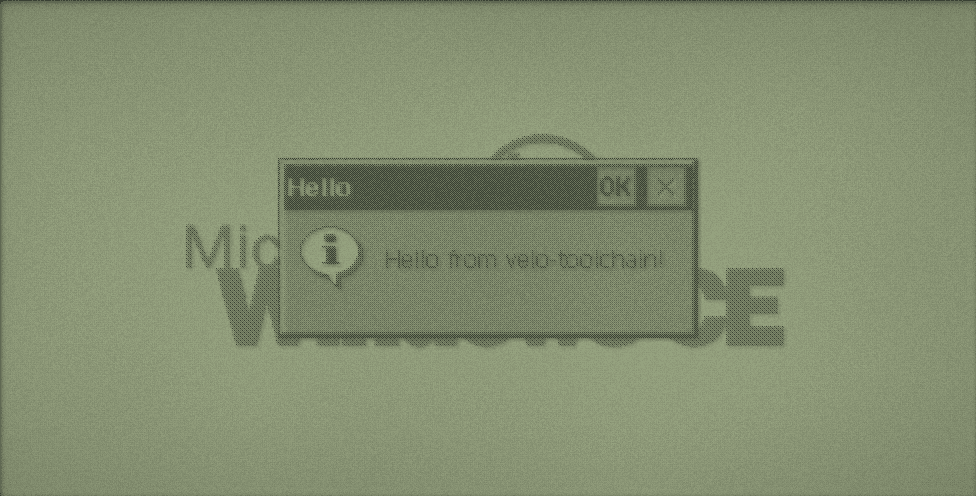
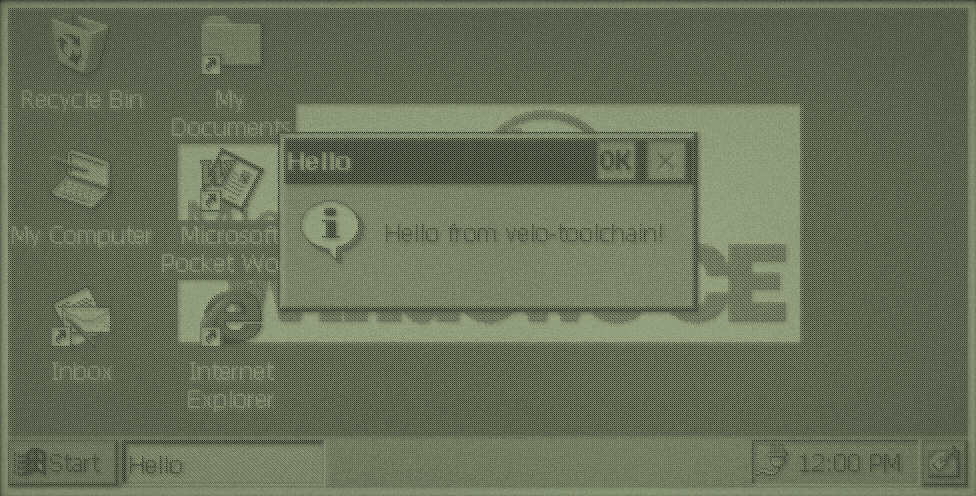
Move the SH3 tests, debug state and docs to the CE 2.12 Explorer image, and note networking on SH3

diff --git a/tools/mkdebugstate.py b/tools/mkdebugstate.py
@@ -17,7 +17,8 @@ velo_debug = SourceFileLoader("velo_debug", os.path.join(ROOT, "tools", "velo-de
 AGENT = "debugmgr.exe"
 INSTALLED = "/Windows/debugmgr.exe"
 SH3_AGENT = "velo-debugmgr.exe"
-SH3_INSTALLED = "/Windows/velo-debugmgr.exe"
+SH3_STAGED = "velo-debugmgr-build.exe"
+SH3_INSTALLED = "/Windows/velo-debugmgr-build.exe"
 SOCKET = "agent.sock"
 CONNECT_SECONDS = 120
 
@@ -43,7 +44,7 @@ if __name__ == "__main__":
     parser.add_argument("--arch", choices=["mips", "sh3"], default="mips", help="sh3: the SH3 emulator (VELO_SH3_EMU, VELO_SH3_ROM)")
     arguments = parser.parse_args()
     target = emulator.load_target(arguments.ce, arguments.arch)
-    agent_name, installed = (SH3_AGENT, SH3_INSTALLED) if arguments.arch == "sh3" else (AGENT, INSTALLED)
+    agent_name, launched, installed = (SH3_AGENT, SH3_STAGED, SH3_INSTALLED) if arguments.arch == "sh3" else (AGENT, AGENT, INSTALLED)
     output = os.path.abspath(arguments.output)
     build = os.path.abspath(arguments.build)
     agent_path = os.path.join(build, agent_name)
@@ -56,7 +57,9 @@ if __name__ == "__main__":
             image = os.path.join(os.path.dirname(output), "debug-card.img")
             shutil.move(media, image)
             media = image
-        events, _ = emulator.launch_events(target, agent_name, "")
+        if launched != agent_name:
+            os.rename(os.path.join(media, agent_name), os.path.join(media, launched))
+        events, _ = emulator.launch_events(target, launched, "")
         command = [os.path.join(target["emulator"], "headless"), target["rom"], "--load=%s" % target["state"], emulator.media_option(target, media),
                    *events, "--agent=%s" % SOCKET, "--seconds=100000", "--save=%s" % output]
         emulator_process = subprocess.Popen(command, stdout=subprocess.DEVNULL, stderr=subprocess.DEVNULL)

diff --git a/tests/emulator.py b/tests/emulator.py
@@ -33,10 +33,9 @@ TARGETS = {
         "folder": True,
     },
 }
-SH3_CALIBRATION = ["--tap=4:240:120", "--tap=6:48:24", "--tap=8:48:216", "--tap=10:432:216", "--tap=12:432:24", "--key=15:5A"]
-SH3_CALIBRATION_SECONDS = 22
-SH3_RUN_DIALOG = ["--key=1:11+0D", "--tap=3:71:198"]
-SH3_TYPED_AT = 5
+SH3_DESKTOP_SECONDS = 30
+SH3_RUN_DIALOG = ["--key=1:14+76", "--type=2:r"]
+SH3_TYPED_AT = 3
 CARD_FOLDER = "EXAMPLES"
 SETTLE_SECONDS = 10
 EXTRA_EVENTS = {"window.exe": ["--tap={at}:200:120"], "window-cxx.exe": ["--tap={at}:200:120"]}
@@ -126,8 +125,8 @@ def make_desktop_state(target, work):
     if target["state"]:
         return target["state"]
     state = os.path.join(work, "desktop.state")
-    subprocess.run([os.path.join(target["emulator"], "headless"), target["rom"], "--seconds=%d" % SH3_CALIBRATION_SECONDS, *SH3_CALIBRATION,
-                    "--save=%s" % state], capture_output=True, timeout=600, check=True)
+    subprocess.run([os.path.join(target["emulator"], "headless"), target["rom"], "--seconds=%d" % SH3_DESKTOP_SECONDS, "--save=%s" % state],
+                   capture_output=True, timeout=600, check=True)
     return state
 
 

diff --git a/README.md b/README.md
@@ -280,13 +280,13 @@ The C runtime DLL's libraries (`msvcrt.lib`, `msvcrtd.lib`) are left out: that D
 
 ### SH3 emulator
 
-The SH3 emulator is a velo-emu fork for Microsoft's Odo SH3 reference board, running a CE 2.11 image built with Platform Builder 2.11. Its `--folder` serves a host folder to CE's parallel-port file system, so programs there start from Task Manager's Run dialog without copying them over. The CE 1.0, 1.01 and 2.0 builds all run on it, and look the same:
+The SH3 emulator is a velo-emu fork for Microsoft's Odo SH3 reference board, running a CE 2.12 (beta) image with the Explorer shell, built with Platform Builder 2.12. Its `--folder` serves a host folder to CE's parallel-port file system, so programs there start from Start > Run by name without copying them over. The CE 1.0, 1.01 and 2.0 builds all run on it, and look the same:
 
 | `hello` | `window` | `maths` | `dll` |
 | --- | --- | --- | --- |
-| ![hello on SH3 CE 2.11](docs/screenshots/sh3/hello.png) | ![window on SH3 CE 2.11](docs/screenshots/sh3/window.png) | ![maths on SH3 CE 2.11](docs/screenshots/sh3/maths.png) | ![greeter on SH3 CE 2.11](docs/screenshots/sh3/greeter.png) |
+| ![hello on SH3 CE 2.12](docs/screenshots/sh3/hello.png) | ![window on SH3 CE 2.12](docs/screenshots/sh3/window.png) | ![maths on SH3 CE 2.12](docs/screenshots/sh3/maths.png) | ![greeter on SH3 CE 2.12](docs/screenshots/sh3/greeter.png) |
 
-These need `VELO_SH3_EMU` (a built SH3 emulator checkout, with `headless`, and `sh3emu` for the window) and `VELO_SH3_ROM` (the CE 2.11 `nk.bin`):
+These need `VELO_SH3_EMU` (a built SH3 emulator checkout, with `headless`, and `sh3emu` for the window) and `VELO_SH3_ROM` (its CE 2.12 image, `odo-sh3-ce212.bin`):
 
 ```sh
 make test-sh3          # run the examples, screenshots in build/ce*-sh3/screenshots
@@ -296,9 +296,11 @@ tools/velo-emulator --arch sh3 &
 gdb -x build/maths.elf.gdb -ex "target extended-remote :2003" -ex "set target-wide-charset UTF-16LE" -ex velo-load -ex "break WinMain" -ex run
 ```
 
-Each run calibrates the touch panel from a cold boot first, unless `VELO_SH3_STATE` names a saved desktop state. `velo-emulator --arch sh3` starts the emulator from the debug state with its GDB stub on port 2003 and the agent socket at `build/debugmgr/ce2-sh3/agent.sock`, for `velo-debug` (`VELO_AGENT`). SH3 GDB scripts set GDB's architecture to `sh3`. VS Code's `Odo SH3 CE 2.11` configuration uses the `velo: emulator SH3` task; its `targetArchitecture` is `mips` because cpptools has no SH value, and GDB itself is set to `sh3`.
+Each run boots the image to its desktop first (30 emulated seconds), unless `VELO_SH3_STATE` names a saved desktop state. `velo-emulator --arch sh3` starts the emulator from the debug state with its GDB stub on port 2003 and the agent socket at `build/debugmgr/ce2-sh3/agent.sock`, for `velo-debug` (`VELO_AGENT`). SH3 GDB scripts set GDB's architecture to `sh3`. VS Code's `Odo SH3 CE 2.12` configuration uses the `velo: emulator SH3` task; its `targetArchitecture` is `mips` because cpptools has no SH value, and GDB itself is set to `sh3`.
 
-On SH3, debugmgr is `velo-debugmgr.exe`: the emulator's image has its own `debugmgr.exe` in ROM, which CE would start instead of one with the same name in a `--folder`.
+On SH3, debugmgr is `velo-debugmgr.exe`, and the emulator's image has a build of it in ROM, which CE starts in place of a `--folder` file with the same name. `make debug-state-sh3` runs the current build as `velo-debugmgr-build.exe` instead.
+
+With `--net`, the image dials PPP over COM1 to the emulator's network, and Winsock programs work. As on the Velo, there's no `WSAStartup` or `WSACleanup` for CE 1.0 and 2.0 (their SDKs make them macros that do nothing): just call `socket`. Later Winsocks, such as this image's, export them.
 
 With `CMAKE_BUILD_TYPE=Debug`, GDB has source lines, arguments, locals and backtraces on SH3, and VS Code stops at source breakpoints. GDB's SH3 calling convention isn't CE's, so `finish` shows the wrong value for functions returning 64-bit values or structures, which CE returns through a hidden pointer. `velo-symbolize` works on SH3 builds.
 
